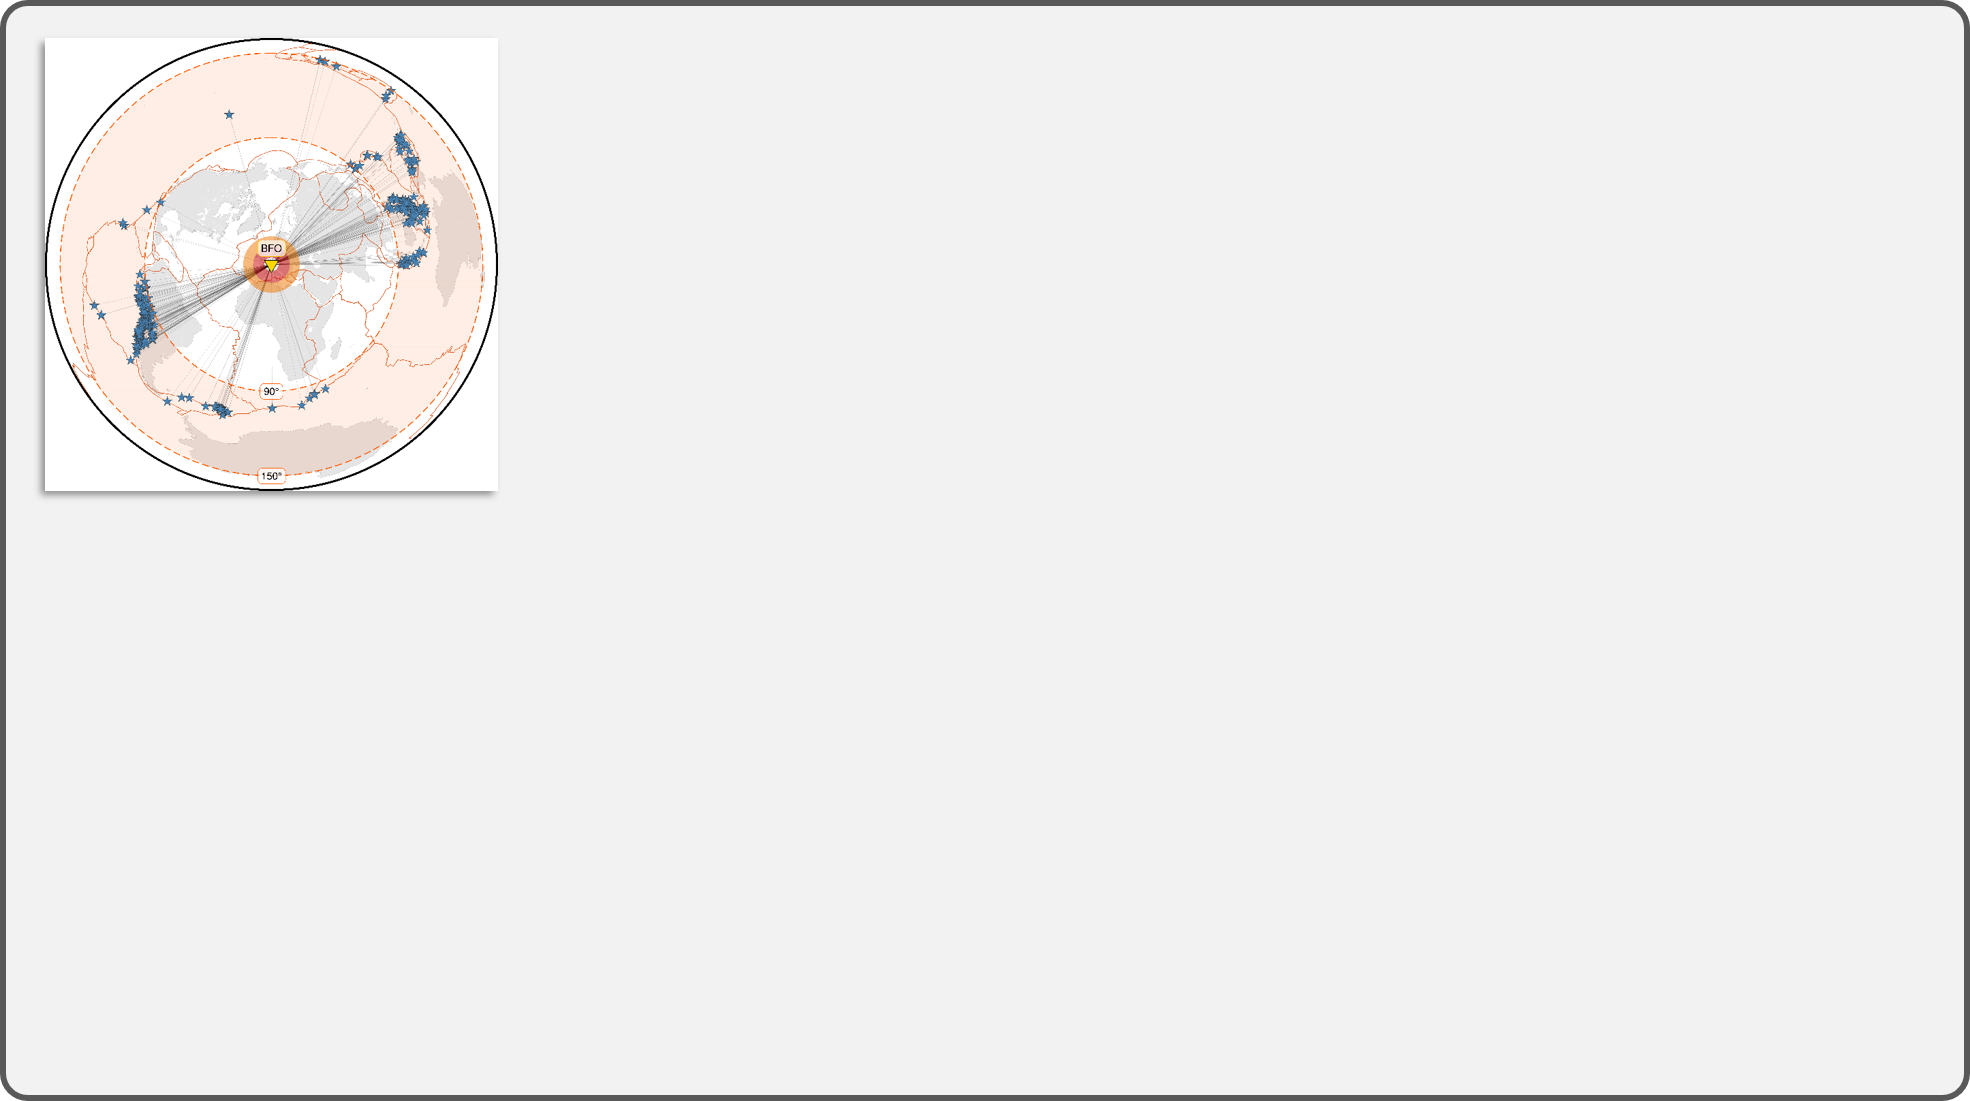
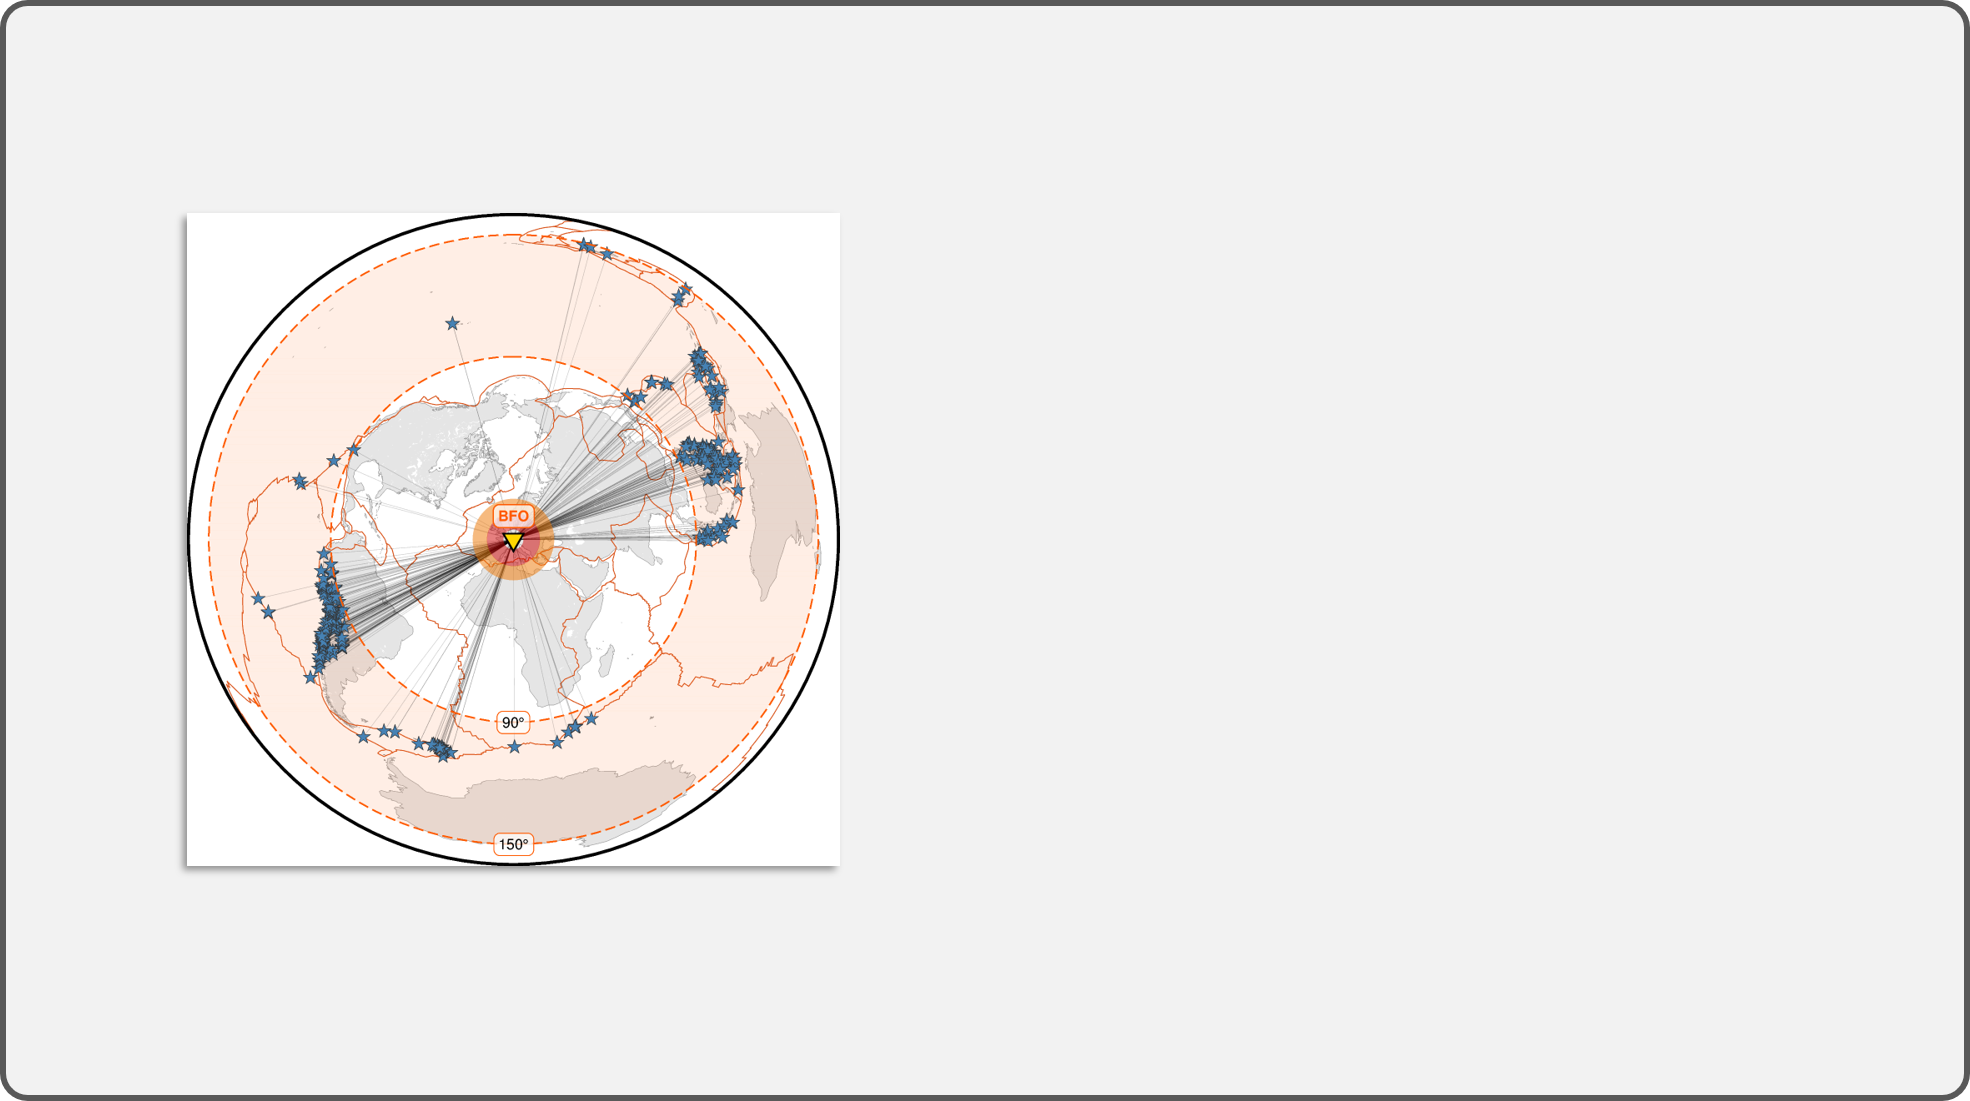
Update overview image and add header

Changed region(s): [[0.0, 0.0309, 0.4335, 0.8029]]

diff --git a/007_dissertation_F_2025/01_epi_bfo/map_epi_bfo.py b/007_dissertation_F_2025/01_epi_bfo/map_epi_bfo.py
@@ -1,5 +1,18 @@
 # #############################################################################
-#
+# Earthquakes related to shear wave splitting measurements (SWSMs) at the
+# recording station Black Forest Observatory (BFO)
+# - epicenters
+# - (projected) rays
+# - areas of SKS and SKKS piercing points (receiver side)
+# -----------------------------------------------------------------------------
+# Related to
+#   - Figure 1 (a) of
+#     Shear wave splitting analysis of long-term data:
+#     Anisotropy studies in the Upper Rhine Graben area, Central Europe
+#     Yvonne Fröhlich, Dissertation, KIT-GPI, 2025/07/04.
+#     TODO KITopen DOI after upload
+#  - SWSM dataset available at https://dx.doi.org/10.35097/685
+#     published along with the publication https://doi.org/10.1093/gji/ggae245
 # -----------------------------------------------------------------------------
 # History
 # - Created: 2025/07/31
@@ -26,7 +39,7 @@ import pandas as pd
 # >>> Set for your needs <<<
 
 # Set projection of map
-proj = "ortho"  ## "rob" | "epi" | "ortho"
+proj = "epi"  ## epi" | "rob" | "ortho"
 fig_size = 11  # in centimeters
 
 # Recording station
